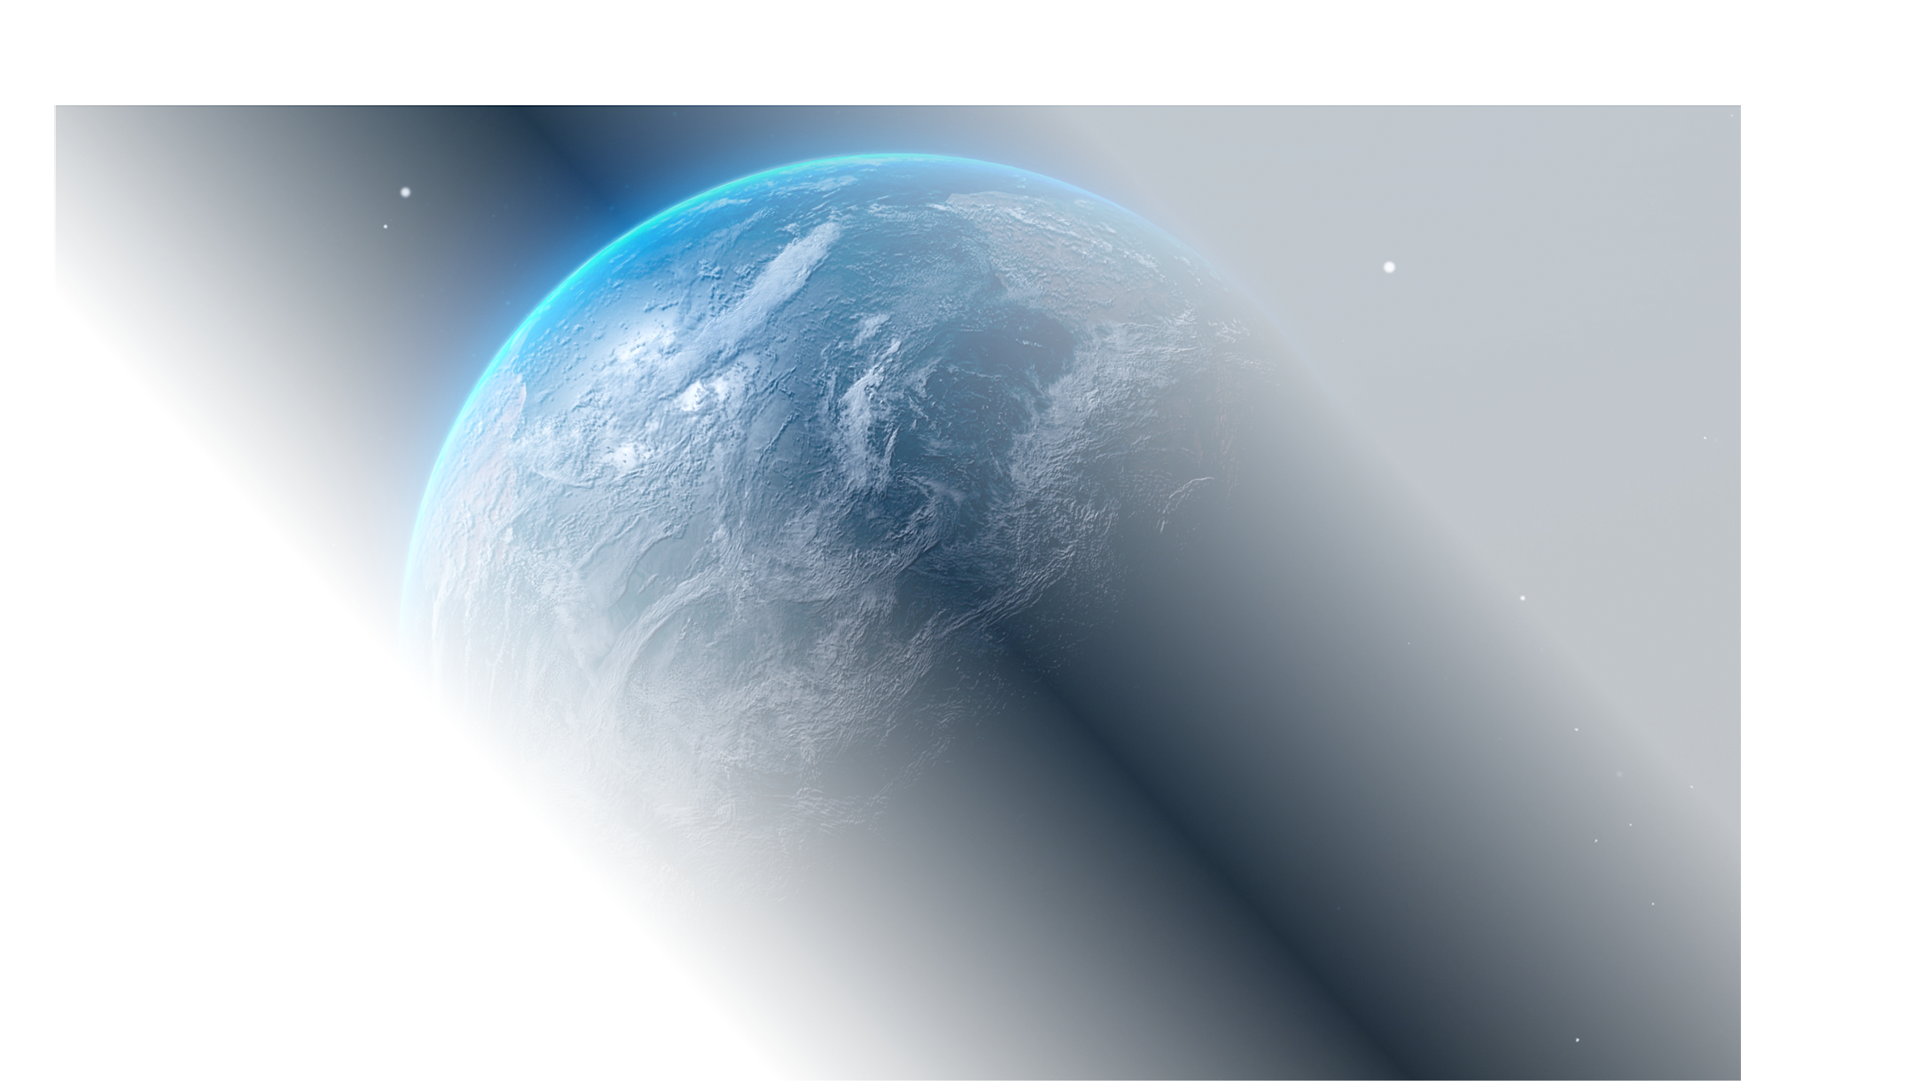
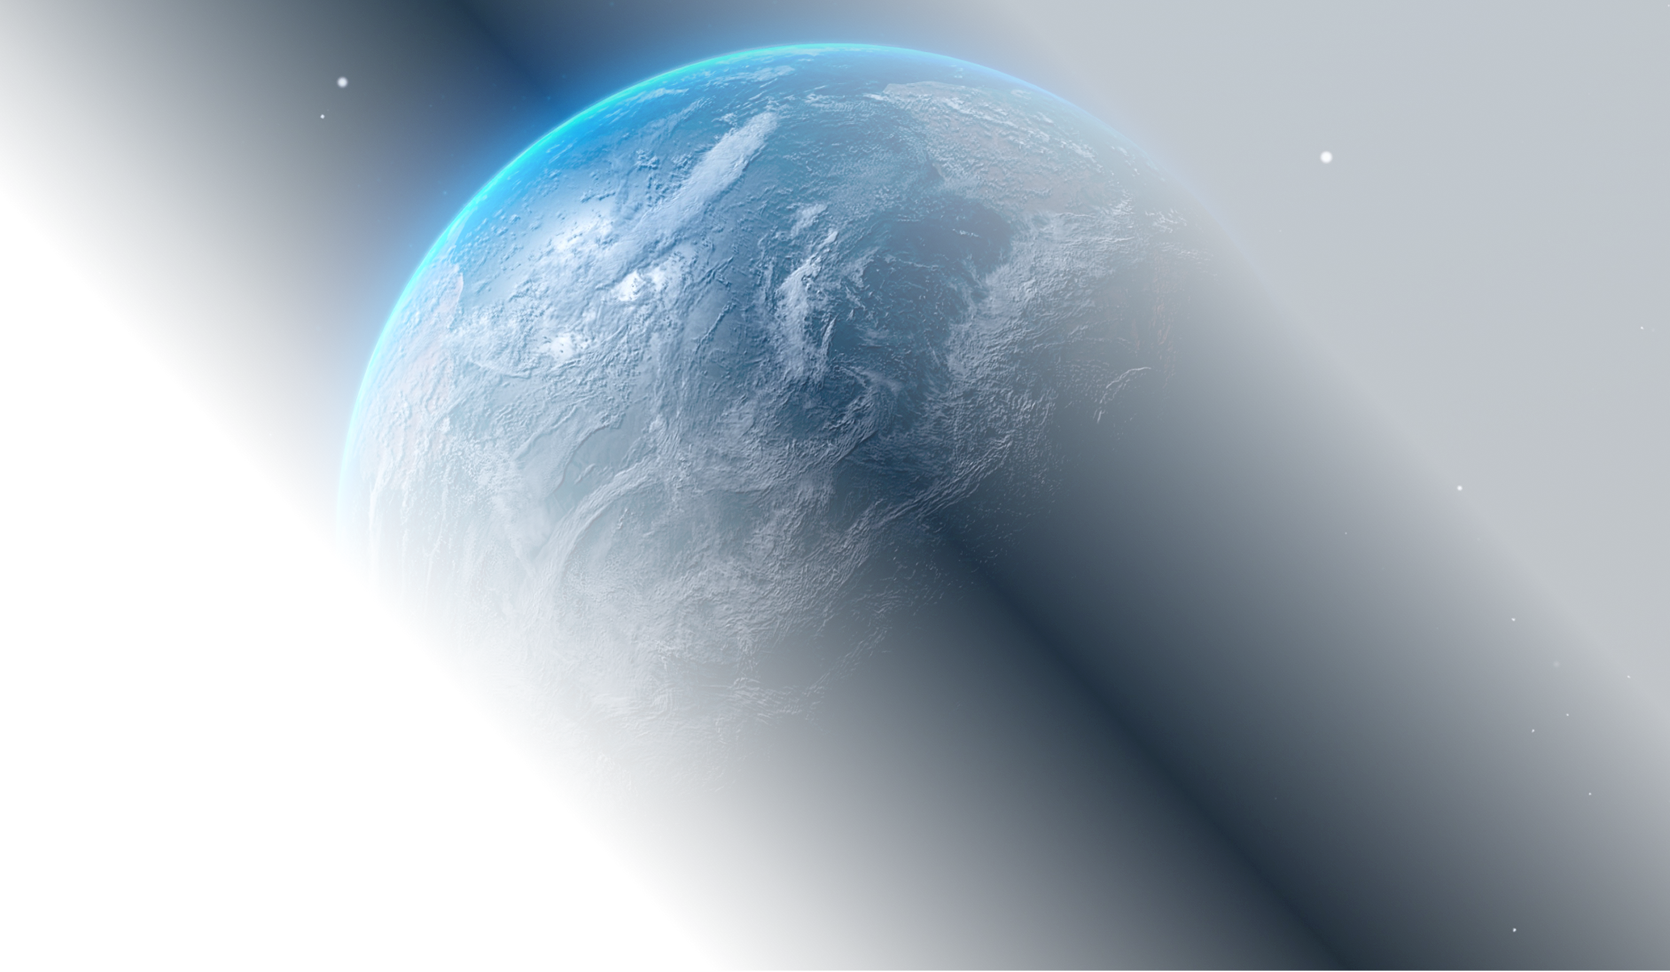
Update team advisor section and image assets
- Added new advisor profile for Dr. M. Rezwan Khan with detailed information.
- Updated existing advisor profile for Prof Dr. Md. Abul Kashem Mia to reflect current status.
- Added new images for team and media sections, while commenting out an unused image.
- Adjusted CSS for background images and layout enhancements.

diff --git a/advisors/advisors.html b/advisors/advisors.html
@@ -73,17 +73,35 @@
 
       <div class="advisor">
         <div class="advisor-photo">
+          <img src="../images/Dr.-M.-Rezwan-Khan.jpg" alt="Dr. M. Rezwan Khan" />
+        </div>
+        <div class="advisor-info">
+          <h2>Dr. M. Rezwan Khan</h2>
+          <p>Team Advisor</p>
+          <p>
+            Professor Emeritus, Dept. of EEE & Director, IAR, United International
+            University
+          </p>
+          <p>
+            <b>Research Interests:</b> Renewable Energy, Microelectronics, Power Electronics, Digital Signal Processing, Electromagnetics and Communication
+          </p>
+          <p><a href="mailto:rezwanm@uiu.ac.bd">rezwanm@uiu.ac.bd</a></p>
+        </div>
+      </div>
+
+      <div class="advisor">
+        <div class="advisor-photo">
           <img src="../images/abul-kashem-VC-UIU.jpg" alt="Prof Dr. Md. Abul Kashem Mia" />
         </div>
         <div class="advisor-info">
           <h2>Prof Dr. Md. Abul Kashem Mia</h2>
-          <p>Team Advisor</p>
+          <p>Ex-Team Advisor</p>
           <p>
-            Vice-Chancellor in Charge & Professor, United International
+            Ex-Vice-Chancellor in Charge & Professor, United International
             University
           </p>
           <p>
-            Research Interests: Algorithm Theory, Graph Theory and Algorithms,
+            <b>Research Interests:</b> Algorithm Theory, Graph Theory and Algorithms,
             Computational Complexity, Bioinformatics
           </p>
           <p><a href="mailto:kashem@uiu.ac.bd">kashem@uiu.ac.bd</a></p>
@@ -118,7 +136,7 @@
             <a href="mailto:swakkhar@cse.uiu.ac.bd">swakkhar@cse.uiu.ac.bd</a>
           </p>
           <p>
-            Research Interests: Bioinformatics (http://brl.uiu.ac.bd/),
+            <b>Research Interests:</b> Bioinformatics (http://brl.uiu.ac.bd/),
             Protein Structures, Genome Rearrangement, Phylogenetic Trees,
             Clustering, AI and Machine Learning, Optimization, Search and
             Satisfiability, Meta-heuristics, Itemset Mining, Constraint
@@ -140,7 +158,7 @@
             <a href="mailto:sarwar@cse.uiu.ac.bd">sarwar@cse.uiu.ac.bd</a>
           </p>
           <p>
-            Research Interests: Software Engineering, Health Engineering,
+            <b>Research Interests:</b> Software Engineering, Health Engineering,
             Education Data Mining, Bangla OCR, Nanomaterial Development,
             Blockchain
           </p>
@@ -160,7 +178,7 @@
           </p>
           <p><a href="mailto:provc@uiu.ac.bd">provc@uiu.ac.bd</a></p>
           <p>
-            Research Interests: Future Internet architecture, Blockchain, Edge
+            <b>Research Interests:</b> Future Internet architecture, Blockchain, Edge
             Cloud, Software-Defined Network (SDN), Multicast security,
             Security protocol validation
           </p>
@@ -182,7 +200,7 @@
             <a href="mailto:saddam@cse.uiu.ac.bd">saddam@cse.uiu.ac.bd</a>
           </p>
           <p>
-            Research Interests: Social Computing, Mental Health Modeling, Data
+            <b>Research Interests:</b> Social Computing, Mental Health Modeling, Data
             Mining, Machine Learning
           </p>
         </div>
@@ -200,7 +218,7 @@
             <a href="mailto:rmostafa@eee.uiu.ac.bd">rmostafa@eee.uiu.ac.bd</a>
           </p>
           <p>
-            Research Interests: Wireless Communications, Antenna array
+            <b>Research Interests:</b> Wireless Communications, Antenna array
             processing, Biomedical signal processing, engineering and general
             education
           </p>

diff --git a/index.html b/index.html
@@ -247,8 +247,10 @@
             <img src="images/team_2023_1.jpg" alt="Slide 2" />
             <img src="images/team_2023_2.jpg" alt="Slide 3" />
             <img src="images/team_2023_3.jpg" alt="Slide 4" />
-            <img src="images/team_2023_4.jpg" alt="Slide 5" />
+            <!-- <img src="images/team_2023_4.jpg" alt="Slide 5" /> -->
             <img src="images/team_2024_1.jpg" alt="Slide 6" />
+            <img src="images/team_URC25.jpg" alt="Slide 7" />
+            <img src="images/team_ARC25.jpg" alt="Slide 8" />
           </div>
           <button class="prev">&#10094;</button>
           <button class="next">&#10095;</button>
@@ -331,12 +333,20 @@
         <img src="images/google_tour.jpg" alt="Photo 3" />
         <img src="images/prothomAlo.jpg" alt="Photo 4" />
         <img src="images/prothomAlo1.jpg" alt="Photo 5" />
+        <img src="images/ProthomAlo_URC25.jpg" alt="Photo 6" />
+        <img src="images/ProthomAlo_ARC25.jpg" alt="Photo 7" />
+        <img src="images/Alokdia_ARC25.jpg" alt="Photo 8" />
+        <img src="images/AjkerPotrika-ARC25.jpg" alt="Photo 9" />
         <!-- Repeat the same images to create a seamless loop -->
         <img src="images/BusinessStandard.png" alt="Photo 1" />
         <img src="images/AlokDia.jpg" alt="Photo 2" />
         <img src="images/google_tour.jpg" alt="Photo 3" />
         <img src="images/prothomAlo.jpg" alt="Photo 4" />
         <img src="images/prothomAlo1.jpg" alt="Photo 5" />
+        <img src="images/ProthomAlo_URC25.jpg" alt="Photo 6" />
+        <img src="images/ProthomAlo_ARC25.jpg" alt="Photo 7" />
+        <img src="images/Alokdia_ARC25.jpg" alt="Photo 8" />
+        <img src="images/AjkerPotrika-ARC25.jpg" alt="Photo 9" />
       </div>
     </div>
 

diff --git a/css/style.css b/css/style.css
@@ -415,7 +415,7 @@ main {
   overflow: hidden;
   background-image: url("../images/Earth.png");
   background-position: center center;
-  /* background-size: cover; */
+  background-size: cover;
   background-repeat: no-repeat;
   min-height: 100vh;
   width: 100%;
@@ -717,7 +717,8 @@ main {
 
 /* General Styles */
 .background-4 {
-  background-image: url("../images/Mask group1.png");
+  /* background-image: url("../images/Mask group1.png"); */
+  background-image: url("../images/thumbnail_raw.jpg");
   background-position: center center;
   background-size: cover;
   background-repeat: no-repeat;
@@ -736,7 +737,7 @@ main {
   top: 0;
   left: 0;
   width: 100%;
-  height: 20%;
+  height: 15%;
   background: linear-gradient(to bottom, rgba(0, 0, 0, 1), rgba(0, 0, 0, 0)); /* Gradient overlay */
   z-index: 1;
 }
@@ -745,12 +746,11 @@ main {
   display: flex;
   flex-direction: column;
   align-items: center;
-  justify-content: space-between; /* Space between logos and button */
   height: 100%;
   width: 100%; /* Ensure it takes full width */
   position: relative;
   z-index: 2;
-  gap: 2rem; /* Add gap between logos and button */
+  gap: 3rem; /* Add gap between logos and button */
 }
 
 /* Logos Container */

diff --git a/scripts/earthFooter.js b/scripts/earthFooter.js
@@ -64,10 +64,12 @@ if (container) {
   }
   
   // Debug log to help troubleshoot path issues
+  /*
   console.log('Current path:', currentPath);
   console.log('Path parts:', pathParts);
   console.log('Depth level:', depthLevel);
   console.log('Asset path:', assetPath);
+  */
 
   // Load starfield texture for background
   const loader = new THREE.TextureLoader();
@@ -98,7 +100,7 @@ if (container) {
     shininess: 10,
     emissiveMap: nightMap,
     emissive: 0xffffff,
-    emissiveIntensity: 1.0
+    emissiveIntensity: 1.3
   });
   const earth = new THREE.Mesh(geometry, material);
   earth.position.y = -sphereRadius * 0.6; // Position Earth below center
